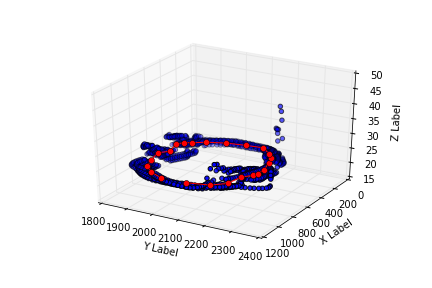
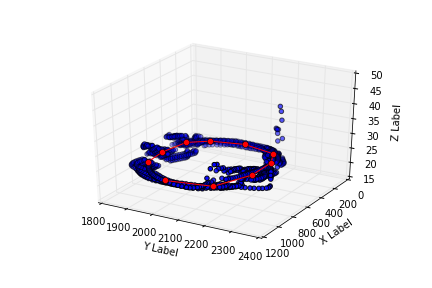
mistakes corrected

Changed region(s): [[0.331, 0.4688, 0.662, 0.6562]]

diff --git a/project3/SOM_3.3.py b/project3/SOM_3.3.py
@@ -12,22 +12,12 @@ from matplotlib.animation import FuncAnimation
 import matplotlib.pyplot as plt
 
 
-# Determine the number of vertices
-#num_vertices = int(raw_input('Insert number of vertices: '))
-
-# Determine the maximal number of learning steps
-#t_max = int(raw_input('Insert maximal time: '))
-
-num_vertices = 23
-t_max = 2000
-
 # Load data
 data1 = genfromtxt('q3dm1-path1.csv', delimiter=',')
 data2 = genfromtxt('q3dm1-path2.csv', delimiter=',')
 
-data = data2
 
-def SOM():
+def SOM(data, num_vertices, t_max):
     # Create random starting weights that already have a circular structure
     # using the properties of sin, cos and pi. The number of neurons/vertices
     # is specified by num_vertices.
@@ -40,7 +30,7 @@ def SOM():
    
     mid = data.mean(axis=0)
    
-    deg = np.linspace(0, 2*np.pi, num_vertices)
+    deg = np.linspace(0, 2*np.pi, num_vertices, endpoint = False)
   
     r0 = (maxx-minx)/2.0
     r1 = (maxy-miny)/2.0
@@ -50,7 +40,7 @@ def SOM():
    
     # Initial weigths/coordinates of the vertices (circular graph)
     circ = np.vstack([c1,c2,c3]).T
- 
+     
     # Initialize weight matrix. In the end it will consist of all weights from 
     # t = 0 up to t = t_max. The weights are needed for the animated plot.
     weight_matrix = [circ.copy()]
@@ -90,6 +80,7 @@ def SOM():
         # Compute learning rate and topological adaptation rate
         eta = (1 - np.true_divide(t,t_max))
         sigma = np.exp(-np.true_divide(t,t_max))
+        sigma = sigma/3
 
         # Update the weight vectors of ALL neurons
         for p in range(0,num_vertices):
@@ -121,6 +112,7 @@ def plot_SOM1(circle, weight_matrix):
     y1 = data1[:,1]
     z1 = data1[:,2]
     
+   
     ax.scatter(y1, x1, z1, c='b', marker='o', depthshade=True)
     vecs = ax.plot(y2, x2, z2,c='r', marker = 'o')[0]
      
@@ -133,6 +125,7 @@ def plot_SOM1(circle, weight_matrix):
     ax.set_zlabel('Z Label')
      
     def updatePlot(weights):
+        weights = np.vstack([weights, weights[0]])
         vecs.set_data(weights[:,1], weights[:,0])
         # NOTE: there is no .set_data() for 3 dim data
         vecs.set_3d_properties(weights[:,2])
@@ -172,6 +165,7 @@ def plot_SOM2(circ, weight_matrix):
     ax.set_zlabel('Z Label')
      
     def updatePlot(weights):
+        weights = np.vstack([weights, weights[0]])
         vecs.set_data(weights[:,1], weights[:,0])
         # NOTE: there is no .set_data() for 3 dim data
         vecs.set_3d_properties(weights[:,2])
@@ -186,7 +180,11 @@ def plot_SOM2(circ, weight_matrix):
     
     
 if __name__=="__main__":
-    
-    circ, weight_matrix = SOM()
-    #plot_SOM1(circ, weight_matrix)
-    plot_SOM2(circ, weight_matrix)
+    num_vertices = 10
+    t_max = 1000
+    data = data2
+    circ, weight_matrix = SOM(data, num_vertices, t_max)
+    if np.array_equal(data,data1):
+       plot_SOM1(circ, weight_matrix)
+    else:
+        plot_SOM2(circ, weight_matrix)
